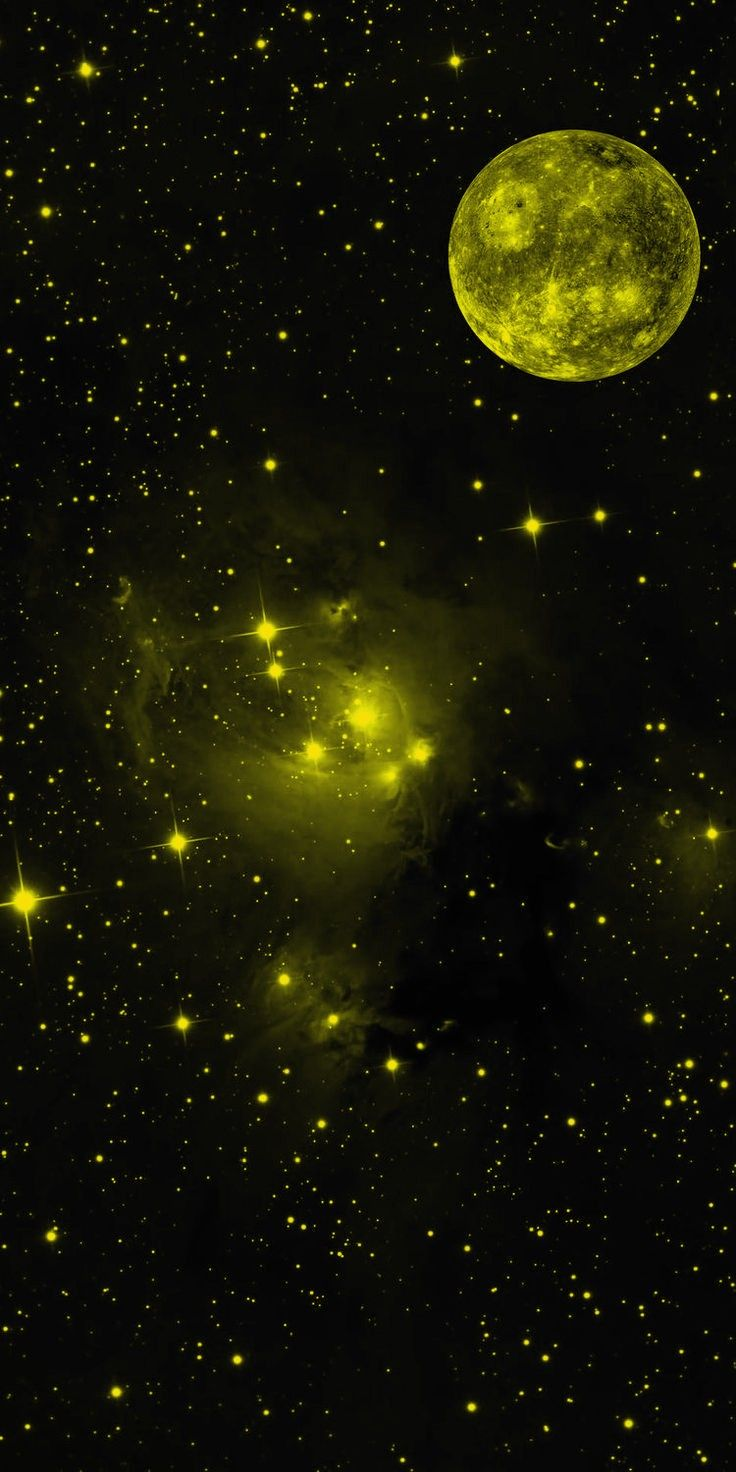
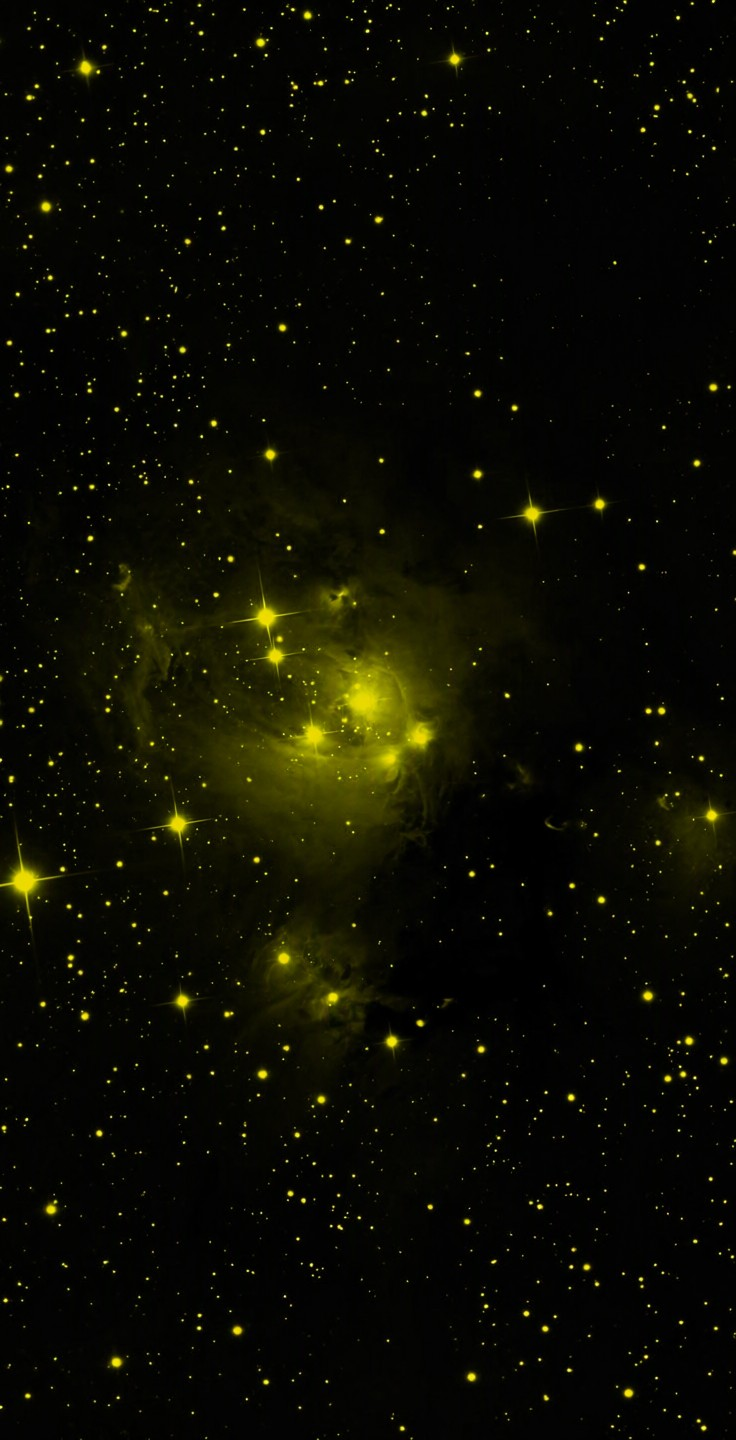
Bigger moon, sometimes red, drawn over night pictures; moons removed from two night pictures

Changed region(s): [[0.5938, 0.0625, 0.9688, 0.2812]]

diff --git a/src/world.ts b/src/world.ts
@@ -45,13 +45,13 @@ moonMap.colorSpace = THREE.SRGBColorSpace;
 const nightMat = new THREE.ShaderMaterial({
   side: THREE.BackSide, depthWrite: false, transparent: true, blending: THREE.AdditiveBlending,
   uniforms: {
-    uMoon: { value: new THREE.Vector3() }, uStars: { value: 1 }, uNight: { value: 0 }, uTime: { value: 0 }, uCloud: { value: 0.5 }, uAurora: { value: 0 },
+    uMoon: { value: new THREE.Vector3() }, uMoonSize: { value: 0.09 }, uMoonTint: { value: new THREE.Vector3(0.9, 0.97, 1.1) }, uMoonGlow: { value: new THREE.Vector3(0.45, 0.62, 1.0) }, uStars: { value: 1 }, uNight: { value: 0 }, uTime: { value: 0 }, uCloud: { value: 0.5 }, uAurora: { value: 0 },
     uMap: { value: starMap }, uMoonMap: { value: moonMap }, uRot: { value: new THREE.Matrix3() },
     uPhoto: { value: null as THREE.Texture | null }, uPhotoOn: { value: 0 }, uPhotoAspect: { value: 1.5 },
   },
   vertexShader: `varying vec3 vDir; void main(){ vDir = position; gl_Position = projectionMatrix * modelViewMatrix * vec4(position, 1.0); }`,
   fragmentShader: /* glsl */ `
-    uniform vec3 uMoon; uniform float uStars, uNight, uTime, uCloud, uAurora; uniform sampler2D uMap, uMoonMap, uPhoto; uniform mat3 uRot; uniform float uPhotoOn, uPhotoAspect;
+    uniform vec3 uMoon, uMoonTint, uMoonGlow; uniform float uMoonSize, uStars, uNight, uTime, uCloud, uAurora; uniform sampler2D uMap, uMoonMap, uPhoto; uniform mat3 uRot; uniform float uPhotoOn, uPhotoAspect;
     varying vec3 vDir;
     ${GLSL_NOISE}
     ${PHOTO_GLSL}
@@ -83,6 +83,23 @@ const nightMat = new THREE.ShaderMaterial({
       float v = on * (s + cross_) * (0.35 + 0.65 * hash(q.zx + 7.0));
       return v * mix(vec3(0.7, 0.82, 1.0), vec3(1.0, 0.9, 0.75), hash(q.xz + 11.0));
     }
+    // The moon: real surface detail, a tint (silver or red) and a glow. Also used over a night picture.
+    vec3 addMoon(vec3 col, vec3 d){
+      float md = dot(d, uMoon);
+      vec3 mz = uMoon;
+      vec3 mx = normalize(cross(vec3(0.0, 1.0, 0.0), mz));
+      vec3 my = cross(mz, mx);
+      vec2 mp = vec2(dot(d, mx), dot(d, my)) / uMoonSize;
+      float mr = length(mp);
+      if (md > 0.0 && mr < 1.0) {
+        float z = sqrt(1.0 - mr * mr);
+        vec3 n = vec3(mp, z);
+        vec2 muv = vec2(atan(n.x, n.z) / 6.2831853 + 0.5, asin(clamp(n.y, -1.0, 1.0)) / 3.1415927 + 0.5);
+        col = mix(col, texture2D(uMoonMap, muv).rgb * uMoonTint * pow(z, 0.3) * 1.7, smoothstep(1.0, 0.94, mr));
+      }
+      col += uMoonGlow * (0.55 * exp(-max(mr - 1.0, 0.0) * 5.0) * step(0.0, md) * smoothstep(0.0, 0.2, mr) + 0.12 * pow(max(md, 0.0), 120.0));
+      return col;
+    }
     void main(){
       vec3 d = normalize(vDir);
       float above = smoothstep(-0.02, 0.05, d.y);
@@ -91,6 +108,7 @@ const nightMat = new THREE.ShaderMaterial({
         ph *= mix(1.0, 0.62, smoothstep(0.12, 0.6, d.y)); // darker overhead
         ph += vec3(0.06, 0.08, 0.15) * pow(1.0 - clamp(d.y * 2.2, 0.0, 1.0), 2.5); // brighter toward the mountains
         ph += vec3(1.0, 0.97, 0.92) * 0.5 * (meteor(d, 0.0, 19.0) + meteor(d, 0.37, 31.0)) * uStars;
+        ph = addMoon(ph, d);
         gl_FragColor = vec4(ph * above * uNight * uStars * 1.9, 1.0); // x1.9: the output pass tone-maps the domes too
         #include <colorspace_fragment>
         return;
@@ -136,19 +154,7 @@ const nightMat = new THREE.ShaderMaterial({
       vec3 cloudCol = mix(vec3(0.012, 0.026, 0.065), vec3(0.78, 0.84, 1.0), rim * moonAmt * 0.85);
       vec3 col = sky * (1.0 - cm) * 0.7 * mix(1.0, 0.7, smoothstep(0.2, 0.7, d.y)) + cloudCol * cm * 0.9;
 
-      // Full moon with real surface detail and a cool glow.
-      vec3 mz = uMoon;
-      vec3 mx = normalize(cross(vec3(0.0, 1.0, 0.0), mz));
-      vec3 my = cross(mz, mx);
-      vec2 mp = vec2(dot(d, mx), dot(d, my)) / 0.05;
-      float mr = length(mp);
-      if (md > 0.0 && mr < 1.0) {
-        float z = sqrt(1.0 - mr * mr);
-        vec3 n = vec3(mp, z);
-        vec2 muv = vec2(atan(n.x, n.z) / 6.2831853 + 0.5, asin(clamp(n.y, -1.0, 1.0)) / 3.1415927 + 0.5);
-        col = mix(col, texture2D(uMoonMap, muv).rgb * vec3(0.9, 0.97, 1.1) * pow(z, 0.3) * 1.7, smoothstep(1.0, 0.94, mr));
-      }
-      col += vec3(0.45, 0.62, 1.0) * (0.55 * exp(-max(mr - 1.0, 0.0) * 5.0) * step(0.0, md) * smoothstep(0.0, 0.2, mr) + 0.12 * pow(max(md, 0.0), 120.0));
+      col = addMoon(col, d);
 
       // Night glow: deep blue overhead, a warm rose haze along the horizon (distant lights on the dust).
       vec3 glow = mix(vec3(0.11, 0.06, 0.08), vec3(0.002, 0.006, 0.02), pow(clamp(d.y * 1.7, 0.0, 1.0), 0.45));
@@ -1093,6 +1099,12 @@ export class World {
     this.rangeDirty = real; // built in the next frame, so the sky-picture change that follows a map change does not build it twice
   }
 
+  /** The moon is silver, or now and then a red one (a tint over the same surface picture). */
+  setMoonRed(red: boolean) {
+    nightMat.uniforms.uMoonTint.value.set(...(red ? [1.9, 0.38, 0.26] : [0.9, 0.97, 1.1]) as [number, number, number]);
+    nightMat.uniforms.uMoonGlow.value.set(...(red ? [1.0, 0.22, 0.15] : [0.45, 0.62, 1.0]) as [number, number, number]);
+  }
+  moonOverride?: THREE.Vector3;
   private mapPicture = false;
   private photoUrl: Record<"day" | "night", string | null> = { day: null, night: null };
   /** Use a sky picture for the day or the night phase (null = the procedural sky). */
@@ -1280,6 +1292,7 @@ export class World {
     u.time.value = this.t;
     u.cloudSpeed.value = 0.00002 * (0.5 + this.windLevel * 2);
     nightMat.uniforms.uMoon.value.set(-Math.cos(a), -Math.sin(a) * 0.85, -0.6).normalize();
+    if (this.moonOverride) nightMat.uniforms.uMoon.value.copy(this.moonOverride).normalize(); // debugging aid: pin the moon somewhere
     nightMat.uniforms.uNight.value = this.night;
     nightMat.uniforms.uTime.value = this.t;
     // The sky turns about a pole tilted 37 degrees from the horizon, one revolution per day.

diff --git a/src/main.ts b/src/main.ts
@@ -610,6 +610,7 @@ let lastSunUp: boolean | null = null;
 const rnd = (n: number) => crypto.getRandomValues(new Uint32Array(1))[0] % n;
 async function pickSky() {
   const kind = world.sunUp ? "day" : "night";
+  if (kind === "night") world.setMoonRed(rnd(4) === 0); // one night in four has a red moon
   const map = curMap();
   if (map.sky.picture) { world.newScenery(); return; } // the map brings its own sky picture
   const folder = kind === "day" ? "day" : map.sky.nightPhotos;

diff --git a/CLAUDE.md b/CLAUDE.md
@@ -50,5 +50,6 @@ Ports are assigned in `C:\Claude\PORTS.md` (5186 UI, 4315 API). To test on a pho
 - Photo scenery: `horizon.photo` draws three overlapping mountain pictures (`public/mountains/<set>-{far,mid,near}.webp`) and `scenery.treeType:"photo"` draws billboard trees (`public/trees/*.webp`), both generated with ComfyUI (see `docs/ASSETS.md`, scripts in `scripts/images/`). `horizon.fog` (0..1, default 0.3) is the mist at the foot of the mountain layers; the lowest meters are always covered. Mountain layers draw after the star and night-sky domes (`renderOrder`), far photo trees only darken with distance (never fade to white haze).
 - Built-in maps: salt-desert, grassland, snow-north, forest-path (list in `loadBuiltins()` in `src/main.ts`, each with a 360x360 card `.jpg`).
 - Store material (`store/`): `feature-1024x500.png` and `promo/real-*.png` are made by `scripts/images/feature.py` and `mockup.py` from real app screenshots (`store/gen/`, ignored by git).
+- Night sky: the moon is drawn by `addMoon()` in the night shader, over the procedural sky and over night pictures; it is bigger (`uMoonSize`) and now and then red (`setMoonRed`, one night in four, chosen in `pickSky()`). Night pictures in `public/sky/night` must not contain a moon (they repeat mirrored, so it would appear twice). `world.moonOverride` pins the moon for debugging.
 - Bodies are listed in `src/bodies.ts`; add a rigged humanoid GLB to `public/models` and one line there to offer it in the profile.
 - Dev only: `window.__sound`, `window.__world` (studio) for debugging.
